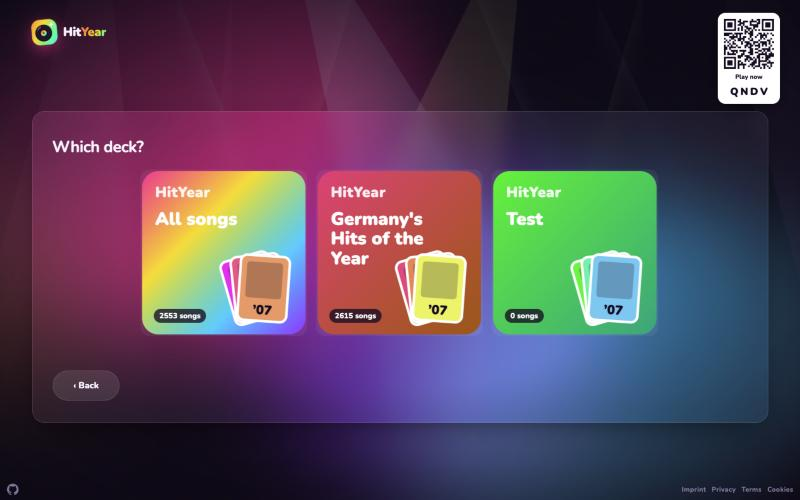
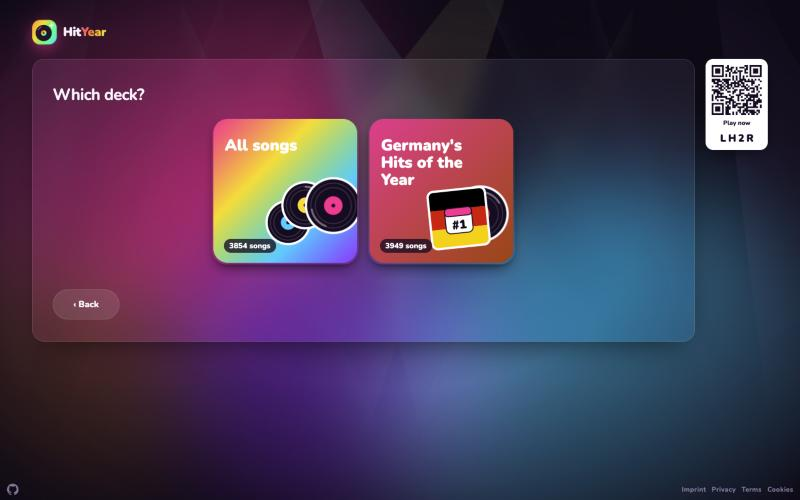
readme: neue Bilder und aktuelle Funktionen
- Bilder neu: Startseite, Einrichtung (Wo läuft die Musik?), Deck-Auswahl, Lobby mit Bots,
  Runde am Hauptbildschirm, Handy-Startseite und Handy in der Runde (fremde Cover unscharf)
- „Einstellungen in der Lobby“ ersetzt durch die geführte Einrichtung Schritt für Schritt:
  Party vor Ort / Online / Allein üben, Rundenende, Jahrzehnte und Genres, Bots entfernen/zurückholen
- Funktionen ergänzt: Startseiten-Kacheln, Einrichtung mit Kacheln und Partikeln, Plattenhüllen,
  9 Equalizer-Stile, Pfeiltasten-Navigation, 960×540, Sparmodus, Marketing-Seite
- Suchmaschinen: Startseite und „So geht's“ indexierbar statt „alle Seiten noindex“;
  Statistik nur mit Einwilligung statt „kein Tracking“

diff --git a/README.de.md b/README.de.md
@@ -2,11 +2,11 @@
 
 [English](README.md) · **Deutsch**
 
-![Startseite von HitYear: „Wann kam der Song raus?“ mit Mitspielen und Spiel erstellen](docs/bilder/startseite.jpg)
+![Startseite von HitYear: „Wann kam der Song raus?“ mit den Kacheln „Spielen mit Code“ und „Party starten“](docs/bilder/startseite.jpg)
 
 **Wann kam der Song raus?** Ein Ausschnitt läuft, alle hören rein und sortieren den Song am Handy nach seinem Erscheinungsjahr in den eigenen Zeitstrahl. Wer zuerst genug Karten richtig liegen hat, gewinnt.
 
-- 1–6 Spielerinnen und Spieler, jede Person mit dem eigenen Handy: QR-Code scannen oder Code eingeben, ohne App. Optional schützt ein gemeinsames Passwort die ganze App; per QR-Code geht es ohne.
+- 1–6 Spielerinnen und Spieler, jede Person mit dem eigenen Handy – oder allein gegen KI-Bots üben: QR-Code scannen oder Code eingeben, ohne App. Optional schützt ein gemeinsames Passwort die ganze App; per QR-Code geht es ohne.
 - Ein Hauptbildschirm (TV, Laptop, Beamer) zeigt QR-Code, Musik-Player, Mitspieler und die Auflösung.
 - Die Musik kommt als 30-Sekunden-Hörprobe, die der Browser **direkt von Deezer** streamt (Apple Music als Ausweichquelle) – der Server speichert keine Musik. Optional eigene Sammlung, aus der der Server kurze Ausschnitte schneidet.
 - Oberfläche in 🇩🇪 Deutsch, 🇬🇧 English, 🇫🇷 Français, 🇮🇹 Italiano, 🇪🇸 Español und 🇧🇷 Português (Brasil).
@@ -15,9 +15,15 @@ Spielen: <https://hityear.app> · Repo: <https://github.com/WTK1611/hityear> · 
 
 ## Bilder
 
-| Hauptbildschirm: Deck wählen | Handy |
+| Einrichtung: Wo läuft die Musik? | Deck wählen |
 |---|---|
-| ![Deck-Auswahl am Hauptbildschirm](docs/bilder/host-decks.jpg) | ![Handy-Ansicht](docs/bilder/handy.jpg) |
+| ![Einrichtungsschritt mit den Kacheln Party vor Ort, Online und Allein](docs/bilder/host-modus.jpg) | ![Deck-Auswahl mit Plattenhüllen als Cover](docs/bilder/host-decks.jpg) |
+| **Lobby: Mitspieler und KI-Bots** | **Runde am Hauptbildschirm** |
+| ![Lobby mit einer Spielerin am Handy und fünf Bots](docs/bilder/host-lobby.jpg) | ![Hauptbildschirm in der Runde: Schallplatte, Equalizer, alle Zeitstrahle](docs/bilder/host-runde.jpg) |
+
+| Handy: Startseite | Handy: eigener Zeitstrahl |
+|---|---|
+| <img src="docs/bilder/handy-start.jpg" width="260" alt="Startseite am Handy mit zwei Kacheln nebeneinander"> | <img src="docs/bilder/handy.jpg" width="260" alt="Handy in der Runde: Equalizer und eigener Zeitstrahl"> |
 
 ---
 
@@ -27,24 +33,24 @@ Spielen: <https://hityear.app> · Repo: <https://github.com/WTK1611/hityear> · 
 2. **Hören:** Nach einem Countdown (3 · 2 · 1) läuft auf allen Geräten gleichzeitig ein Ausschnitt.
 3. **Einordnen:** Im eigenen Zeitstrahl die Lücke antippen, in die der Song gehört, und bestätigen. Gleiches Jahr wie eine Nachbarkarte zählt als richtig.
 4. **Auflösung:** Titel, Interpret, Jahr und Cover erscheinen. Wer richtig lag, bekommt die Karte in den Zeitstrahl.
-5. **Zusatzpunkte ⭐ (optional):** Nach dem Jahr zusätzlich Interpret und/oder Titel raten. Jeder Treffer gibt einen Stern.
+5. **Zusatzpunkte ⭐ (optional):** Nach dem Jahr zusätzlich Titel und Interpret raten. Jeder Treffer gibt einen Stern.
 6. **Sieg:** Wer die Zielzahl an Karten (10, 15 oder 20) erreicht, gewinnt sofort. Bei Gleichstand entscheiden die ⭐; sind auch die gleich, gewinnen alle Führenden gemeinsam.
 7. Nach der Auflösung geht es nach 10 Sekunden automatisch weiter. Überspringen gibt es nicht, damit alle die Auflösung gleich lang sehen.
 
-### Einstellungen in der Lobby
+### Einrichtung Schritt für Schritt
 
-| Einstellung | Optionen |
+Der Hauptbildschirm stellt pro Schritt eine Frage, die Antworten sind große Kacheln (am Handy zwei pro Reihe). Der QR-Code steht schon ab dem ersten Schritt daneben, Mitspieler können also beitreten, während eingerichtet wird.
+
+| Schritt | Optionen |
 |---|---|
+| Wo läuft die Musik? | **Party vor Ort** (Ton vom TV, Handys nur zum Tippen) · **Online** (jedes Handy spielt die Musik, auch an verschiedenen Orten; der Gastgeber kann auf demselben Gerät mitspielen) · **Allein** (zum Üben, mit oder ohne Bots) |
+| Wer ist dran? | alle gleichzeitig · reihum einer |
+| Wann endet eine Runde? (alle gleichzeitig) | nach ganzer Hörprobe (30 s) · 5 s nach allen Antworten · 5 s ab der ersten Antwort |
+| Was wird geraten? | nur das Jahr · Jahr + Songtitel & Interpret (Bonus-Sterne) |
 | Karten zum Sieg | 10 · 15 · 20 |
-| Musik läuft … | **Party vor Ort** (auf dem Hauptbildschirm) · **Online** (auf jedem Handy) |
-| Zeit zum Einordnen | bis alle gewählt haben · bis der Ausschnitt endet |
-| Wer ist dran? | alle gleichzeitig · immer nur ein Spieler |
-| Runde endet (alle gleichzeitig) | wenn alle getippt haben · 5 s danach · mit der ersten Eingabe |
-| Nicht erraten | Lösung zeigen oder verdecken, Song kommt später nochmal oder nicht |
-| Was wird geraten? | nur das Jahr · + Titel · + Interpret · + beides |
-| Deck | ganze Bibliothek oder ein eigenes Deck |
-| Toleranz pro Person | exakt · ±1 · ±2 · ±3 · ±5 Jahre (für Kinder oder Einsteiger) |
-| KI-Bots | freie Plätze bis 6 mit Bots auffüllen; Name und Stärke (leicht, mittel, Profi) würfelt die App |
+| Deck | alle Songs oder ein Deck, danach nach Jahrzehnten und Genres filtern (Mehrfachauswahl; *Weiter* erst, wenn Songs übrig bleiben) |
+| KI-Bots | freie Plätze bis 6 mit Bots auffüllen; Name und Stärke (leicht, mittel, Profi) würfelt die App. In der Lobby entfernt ein Klick einen Bot oder holt ihn zurück, echte Spieler übernehmen Bot-Plätze |
+| Toleranz pro Person | exakt · ±1 · ±2 · ±3 · ±5 Jahre (für Kinder oder Einsteiger; in der Lobby antippen) |
 
 ---
 
@@ -56,10 +62,13 @@ Spielen: <https://hityear.app> · Repo: <https://github.com/WTK1611/hityear> · 
 | **Synchron spielen** | Server-autoritativer Zustand, gemeinsamer Startzeitpunkt auf der Serveruhr, Uhrabgleich per Ping, Stand-Nummer mit Abgleich alle 2 s samt Lebenszeichen (ohne Antwort → sofort neu verbinden), gezielte Nachfrage zu Auflösung und nächstem Song, Handshake vor jedem Songwechsel (höchstens 10 s „Warte auf …“), Hinweis bei Verbindungsverlust |
 | **Handy-Leistung** | Aufwendiger animierter Hintergrund nur am Hauptbildschirm; Handys bekommen einen ruhenden Verlauf ohne Weichzeichner (der teure Hintergrund ließ iPhones bei jedem Songwechsel 10–27 s einfrieren) |
 | **Fehlersuche** | Geräte melden Hänger der Seite, Trennungen und ausbleibende Antworten ins Server-Log (`[diagnose]`, `[verbindung]`, `[bereit]`) |
-| **Rechtliches** | Impressum, Datenschutz, Nutzungsbedingungen (AGB), Links in der Fußzeile, einmaliger Cookie-Hinweis (kein Tracking) |
-| **Hauptbildschirm** | QR-Code, drehende Schallplatte, die im Bass vibriert, Equalizer, Fortschrittsleiste, Mitspieler-Raster mit Live-Status (überlegt, getippt, rät), Ergebnis-Banner mit Sternen, „+1“-Animationen, Konfetti, Bestenliste |
+| **Rechtliches** | Impressum, Datenschutz, Nutzungsbedingungen (AGB), Links in der Fußzeile; anonyme Statistik (Matomo auf eigenem Server) nur mit Einwilligung, auf der Cookie-Seite widerrufbar |
+| **Suchmaschinen** | Startseite und „So geht's“ sind indexierbar (`robots.txt`, `sitemap.xml`, `llms.txt`); API, Räume, Hauptbildschirm, Handy und Bibliothek senden `noindex` |
+| **Startseite** | Zwei quadratische Kacheln: *Spielen mit Code* (Code-Feld direkt auf der Kachel, eigene Fehlermeldung) und *Party starten*; am Handy nebeneinander |
+| **Einrichtung** | Geführte Einrichtung mit Kacheln (Verlauf, Aufkleber-Bild, Schatten), Partikel bei jedem Tipp, Decks als Plattenhüllen, die aus dem Namen gestaltet sind (Flagge, Symbol), Startkarte wird vor dem ersten Song aufgedeckt |
+| **Hauptbildschirm** | QR-Code, drehende Schallplatte, die im Bass vibriert, Equalizer in 9 Stilen (Klick oder ←/→ schaltet um), Fortschrittsleiste, Mitspieler-Raster mit Live-Status (überlegt, getippt, rät), Ergebnis-Banner mit Sternen, „+1“-Animationen, Konfetti, Bestenliste |
 | **Handy** | Eigener Zeitstrahl zum Antippen, Countdown, geführtes Raten (Jahr → Interpret → Titel), Vibration, Bildschirm bleibt wach (Wake Lock) |
-| **TV-tauglich** | Eigene Schrift (Nunito), SVG-Symbole statt Sonderzeichen, Abstand gegen Overscan, Bedienung mit der Fernbedienung (Pfeiltasten + OK) |
+| **TV-tauglich** | Eigene Schrift (Nunito), SVG-Symbole statt Sonderzeichen, Abstand gegen Overscan, Bedienung mit der Fernbedienung durch alle Kacheln (Pfeiltasten + OK), passt ohne Scrollen auf 960×540, Sparmodus für Fernseher und alte Geräte (keine Dauer-Animationen, gedrosselter Equalizer) |
 | **Anti-Schummeln** | Ausschnitte ohne Metadaten mit Einmal-URLs; Titel und Jahr kommen erst mit der Auflösung zum Gerät |
 | **Audio** | Hörproben direkt von Deezer gestreamt (Apple Music als Ausweichquelle), mit Quellenhinweis; bei eigenen Dateien: Startpunkt zufällig bei 20–60 % der Songlänge, Ein- und Ausblenden, Lautstärke angeglichen (`loudnorm`) |
 | **Bibliothek** | Vorschauen von Apple/Deezer als Einträge (keine Dateien), optional Scan eigener Dateien (MP3, M4A, FLAC, OGG, Opus), Jahr aus manueller Angabe > Songliste (Originaljahr) > Tag bzw. Apple/Deezer > Jahrescharts, Prüfliste, Duplikate, Songs ausschließen |
@@ -67,6 +76,7 @@ Spielen: <https://hityear.app> · Repo: <https://github.com/WTK1611/hityear> · 
 | **Hintergrund** | Eigene Geschichten zum Song |
 | **Sprachen** | 6 Sprachen; Umschalter mit Flaggen oben rechts auf der Startseite, sonst die Sprache des Browsers |
 | **App-Gefühl** | Web-App-Manifest und Icons (zum Home-Bildschirm hinzufügen) |
+| **Marketing** | `/marketing`: Bilder (Quadrat, Story, Link-Vorschau; DE/EN) und fertige Posttexte für soziale Netzwerke |
 
 ---
 
@@ -120,9 +130,10 @@ Spielen: <https://hityear.app> · Repo: <https://github.com/WTK1611/hityear> · 
 | Datei | Aufgabe |
 |---|---|
 | `index.html` + `js/start.js` | Startseite: Code eingeben, QR scannen, Spiel erstellen, Sprachumschalter |
-| `host.html` + `js/host.js` | Hauptbildschirm: Lobby, Player, Mitspieler, Auflösung |
+| `host.html` + `js/host.js` | Hauptbildschirm: geführte Einrichtung, Lobby, Player, Mitspieler, Auflösung |
 | `spielen.html` + `js/spielen.js` | Handy: beitreten, einordnen, raten |
 | `admin.html` + `js/admin.js` | Bibliothek, Decks (nur Deutsch) |
+| `so-gehts.html`, `marketing.html` + `js/marketing.js` | Spielanleitung; Bilder und Posttexte zum Teilen |
 | `js/gemeinsam.js` | Gemeinsame Bausteine: Socket, Uhrabgleich, Player, Equalizer, Countdown, Fernbedienung |
 | `js/i18n.js` | Sprachen: übersetzt alle Texte der Seite über eine Tabelle (Deutsch → Zielsprache) |
 
@@ -172,7 +183,7 @@ Beiträge sind willkommen – siehe [CONTRIBUTING.md](CONTRIBUTING.md). Die Rege
 - Impressum, Datenschutz und Nutzungsbedingungen liegen unter `public/impressum.html`, `public/datenschutz.html`, `public/nutzungsbedingungen.html`.
 - Hörproben kommen von Apple Music und Deezer unter deren Entwickler-Bedingungen: **nur nicht kommerziell und privat**. Keine Funktionen einbauen, die Hörproben speichern, mitschneiden oder umgehen.
 - Eigene Dateien: nur rechtmäßig erworbene Musik. **Keine Musikdateien und keine Chartdaten sind Teil des Repos.**
-- Ausgeliefert werden nur kurze Ausschnitte, keine ganzen Dateien; die Seiten sind `noindex`.
+- Ausgeliefert werden nur kurze Ausschnitte, keine ganzen Dateien. Suchmaschinen indexieren nur die Startseite und „So geht's“.
 - Name und Logo „HitYear“ sind von der Lizenz nicht erfasst; keine fremden Marken.
 - Schrift Nunito unter der [SIL Open Font License](public/fonts/OFL.txt).
 

diff --git a/README.md b/README.md
@@ -2,11 +2,11 @@
 
 **English** · [Deutsch](README.de.md)
 
-![HitYear home page: "When did the song come out?" with join and create buttons](docs/bilder/startseite.jpg)
+![HitYear home page: "When did the song come out?" with the tiles "Join with a code" and "Start a party"](docs/bilder/startseite.jpg)
 
 **When did the song come out?** A clip plays, everyone listens, and each player places the song on their phone into their own timeline by release year. The first to get enough cards in the right spot wins.
 
-- 1–6 players, each on their own phone: scan the QR code or type the room code. No app. Optionally a shared password protects the whole app; the QR code lets guests in without it.
+- 1–6 players, each on their own phone – or practise alone against AI bots: scan the QR code or type the room code. No app. Optionally a shared password protects the whole app; the QR code lets guests in without it.
 - One main screen (TV, laptop, projector) shows the QR code, the music player, all players and the reveal.
 - Music comes as 30-second previews that the browser streams **directly from Deezer** (Apple Music as a fallback) – the server stores no music. Optionally your own collection, from which the server cuts short clips.
 - Interface in 🇩🇪 Deutsch, 🇬🇧 English, 🇫🇷 Français, 🇮🇹 Italiano, 🇪🇸 Español and 🇧🇷 Português (Brasil).
@@ -15,9 +15,15 @@ Play: <https://hityear.app> · Repo: <https://github.com/WTK1611/hityear> · Lic
 
 ## Screenshots
 
-| Main screen: choosing a deck | Phone |
+| Setup: where does the music play? | Choosing a deck |
 |---|---|
-| ![Deck selection on the main screen](docs/bilder/host-decks.jpg) | ![Phone view](docs/bilder/handy.jpg) |
+| ![Setup step with the tiles Party in the room, Online and Solo](docs/bilder/host-modus.jpg) | ![Deck selection with record-sleeve covers](docs/bilder/host-decks.jpg) |
+| **Lobby: players and AI bots** | **Round on the main screen** |
+| ![Lobby with one phone player and five bots](docs/bilder/host-lobby.jpg) | ![Main screen during a round: record, equalizer, all timelines](docs/bilder/host-runde.jpg) |
+
+| Phone: home page | Phone: your timeline |
+|---|---|
+| <img src="docs/bilder/handy-start.jpg" width="260" alt="Home page on the phone with two tiles side by side"> | <img src="docs/bilder/handy.jpg" width="260" alt="Phone during a round: equalizer and your own timeline"> |
 
 ---
 
@@ -27,24 +33,24 @@ Play: <https://hityear.app> · Repo: <https://github.com/WTK1611/hityear> · Lic
 2. **Listen:** After a countdown (3 · 2 · 1) a clip plays on all devices at the same moment.
 3. **Place:** Tap the gap in your timeline where the song belongs and confirm. Same year as a neighbouring card counts as correct.
 4. **Reveal:** Title, artist, year and cover appear. Whoever was right adds the card to their timeline.
-5. **Bonus stars ⭐ (optional):** After the year, also guess the artist and/or the title. Each hit earns a star.
+5. **Bonus stars ⭐ (optional):** After the year, also guess the title and the artist. Each hit earns a star.
 6. **Winning:** The first player to reach the target (10, 15 or 20 cards) wins right away. On a tie the ⭐ decide; if those are equal too, the leaders win together.
 7. After the reveal the game moves on automatically after 10 seconds. There is no skipping, so everyone sees the reveal equally long.
 
-### Lobby settings
+### Setup step by step
 
-| Setting | Options |
+The main screen asks one question per step, the answers are big tiles (on phones two per row). The QR code is visible from the first step, so players can join while you set up.
+
+| Step | Options |
 |---|---|
-| Cards to win | 10 · 15 · 20 |
-| Music plays … | **Party in the room** (on the main screen) · **Online** (on every phone) |
-| Time to place | until everyone has chosen · until the clip ends |
+| Where does the music play? | **Party in the room** (sound from the TV, phones only tap) · **Online** (every phone plays the music, also from different places; the host can play on the same device) · **Solo** (practise alone, with or without bots) |
 | Whose turn? | everyone at once · one player at a time |
-| Round ends (everyone at once) | when everyone has tapped · 5 s later · with the first answer |
-| Not guessed | show or hide the answer; the song comes back later or not |
-| What do you guess? | year only · + title · + artist · + both |
-| Deck | whole library or a custom deck |
-| Tolerance per player | exact · ±1 · ±2 · ±3 · ±5 years (for kids or beginners) |
-| AI bots | fill free seats up to 6 with bots; the app rolls name and strength (easy, medium, pro) |
+| When does a round end? (everyone at once) | after the full preview (30 s) · 5 s after all answers · 5 s after the first answer |
+| What do you guess? | year only · year + title & artist (bonus stars) |
+| Cards to win | 10 · 15 · 20 |
+| Deck | all songs or a deck, then filter by decades and genres (multiple choice; *Next* only once songs match) |
+| AI bots | fill free seats up to 6 with bots; the app rolls name and strength (easy, medium, pro). In the lobby a click removes a bot or brings it back, and real players take over bot seats |
+| Tolerance per player | exact · ±1 · ±2 · ±3 · ±5 years (for kids or beginners; tap it in the lobby) |
 
 ---
 
@@ -56,10 +62,13 @@ Play: <https://hityear.app> · Repo: <https://github.com/WTK1611/hityear> · Lic
 | **In sync** | Server-authoritative state, shared start time on the server clock, clock sync via ping, state counter checked every 2 s with a liveness reply (no reply → reconnect at once), targeted re-check at reveal and next song, handshake before every song change (at most 10 s “Waiting for …”), notice when the connection drops |
 | **Phone performance** | The heavy animated background runs only on the main screen; phones get a calm static gradient without blur (the heavy background froze iPhones for 10–27 s at every song change) |
 | **Debugging** | Devices report page freezes, disconnects and missing replies to the server log (`[diagnose]`, `[verbindung]`, `[bereit]`) |
-| **Legal** | Legal notice, privacy policy, terms of use, footer links, one-time cookie notice (no tracking) |
-| **Main screen** | QR code, spinning record that shakes to the bass, equalizer, progress bar, player grid with live status (thinking, placed, guessing), result banners with stars, “+1” animations, confetti, leaderboard |
+| **Legal** | Legal notice, privacy policy, terms of use, footer links; anonymous statistics (self-hosted Matomo) only with consent, revocable on the cookie page |
+| **Search engines** | Home page and “How to play” are indexable (`robots.txt`, `sitemap.xml`, `llms.txt`); API, rooms, main screen, phone and library send `noindex` |
+| **Home page** | Two square tiles: *Join with a code* (code field right on the tile, own error message) and *Start a party*; on phones side by side |
+| **Setup** | Guided setup with tiles (gradient, sticker image, shadow), a particle burst on every tap, decks as record sleeves designed from their name (flag, symbol), starting card revealed before the first song |
+| **Main screen** | QR code, spinning record that shakes to the bass, equalizer in 9 styles (click or ←/→ switches), progress bar, player grid with live status (thinking, placed, guessing), result banners with stars, “+1” animations, confetti, leaderboard |
 | **Phone** | Tappable personal timeline, countdown, guided guessing (year → artist → title), vibration, screen stays awake (Wake Lock) |
-| **TV-friendly** | Bundled font (Nunito), SVG icons instead of special characters, overscan margins, remote-control navigation (arrow keys + OK) |
+| **TV-friendly** | Bundled font (Nunito), SVG icons instead of special characters, overscan margins, remote-control navigation through every tile (arrow keys + OK), fits 960×540 without scrolling, power-saving mode for TVs and old devices (no continuous animations, throttled equalizer) |
 | **Anti-cheat** | Clips without metadata behind one-time URLs; title and year only reach devices with the reveal |
 | **Audio** | Previews streamed directly from Deezer (Apple Music as a fallback) with a source badge; for own files: random start at 20–60 % of the song, fade in/out, loudness normalisation (`loudnorm`) |
 | **Library** | Apple/Deezer previews as entries (no files), optional scan of own files (MP3, M4A, FLAC, OGG, Opus), year from manual entry > song list (original year) > tag or Apple/Deezer > year-end charts, review list, duplicates, exclude songs |
@@ -67,6 +76,7 @@ Play: <https://hityear.app> · Repo: <https://github.com/WTK1611/hityear> · Lic
 | **Trivia** | Your own stories per song |
 | **Languages** | 6 languages; flag switcher at the top right of the home page, otherwise the browser language |
 | **App feel** | Web app manifest and icons (add to home screen) |
+| **Marketing** | `/marketing`: images (square, story, link preview; DE/EN) and ready-made post texts for social networks |
 
 ---
 
@@ -120,9 +130,10 @@ Play: <https://hityear.app> · Repo: <https://github.com/WTK1611/hityear> · Lic
 | File | Purpose |
 |---|---|
 | `index.html` + `js/start.js` | Home page: enter code, scan QR, create game, language switcher |
-| `host.html` + `js/host.js` | Main screen: lobby, player, players, reveal |
+| `host.html` + `js/host.js` | Main screen: guided setup, lobby, player, players, reveal |
 | `spielen.html` + `js/spielen.js` | Phone: join, place, guess |
 | `admin.html` + `js/admin.js` | Library, decks (German only) |
+| `so-gehts.html`, `marketing.html` + `js/marketing.js` | How to play; images and post texts for sharing |
 | `js/gemeinsam.js` | Shared building blocks: socket, clock sync, player, equalizer, countdown, remote control |
 | `js/i18n.js` | Languages: translates every text on the page via a table (German → target language) |
 
@@ -171,7 +182,7 @@ Contributions are welcome – see [CONTRIBUTING.md](CONTRIBUTING.md). Rules in s
 
 - Previews come from Apple Music and Deezer under their developer terms: **non-commercial and private use only**. Do not add features that store, record or circumvent previews.
 - Own files: use only music you own legally. **No music files or chart data are part of this repository.**
-- Only short clips are served, never whole files; pages are `noindex`.
+- Only short clips are served, never whole files. Search engines index only the home page and “How to play”.
 - The name and logo “HitYear” are not covered by the license; no third-party trademarks.
 - Font Nunito under the [SIL Open Font License](public/fonts/OFL.txt).
 
